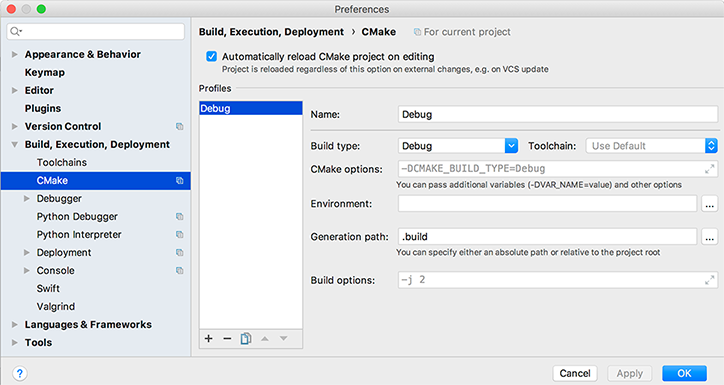
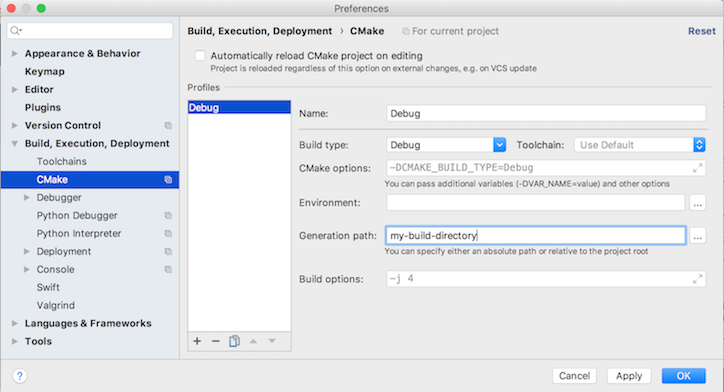
Update GeoFeatures-Development.md (#177)
* Update GeoFeatures-Development.md to reflect cmake-build-debug directory instead of .build.
* Updating Clion screenshot to reflect changes in GeoFeatures-Development.md.

diff --git a/Documentation/GeoFeatures-Development.md b/Documentation/GeoFeatures-Development.md
@@ -14,32 +14,34 @@ We highly recommend '**out of source**' builds for working with GeoFeatures.
 
 To create an out of source build, you can do the following.
 
-```
+```bash
 # cd <root of geofeatures>
-# mkdir .build && cd .build
+# mkdir cmake-build-debug && cd cmake-build-debug
 # cmake ../
 ```
-If all the dependent tools are installed, cmake will create the make files for development or any of the other tasks in this readme.
+> Note: You may name the directory whatever you'd like.  We chose `cmake-build-debug` because CLion uses that directory by default when you open the project directory. This allows seamless switching between CLion and the command line.
+
+If all the dependent tools are installed, cmake will create the make files for development and any of the other tasks in this readme.
 
 ### Swift build & test
 
 To build and test the code-line and run the appropriate tools, run the following commands.
 
 > Make sure you are in the same directory you ran cmake originally.
-```
+```bash
 # make
 ```
 If you want to build the code-line only, run:
-```
-# make geofeartures-build
+```bash
+# make geofeatures-build
 ```
 Or to specifically target the tests, run:
-```
-# make geofeartures-test
+```bash
+# make geofeatures-test
 ```
 
 If you get stuck and need help, run:
-```
+```bash
 # make help
 ```
 
@@ -47,7 +49,7 @@ If you get stuck and need help, run:
 
 If you are using Clion, it will read the cmake files when you open the root of the GeoFeatures directory structure.
 
-You should  reconfigure it after initial start up for '**out of source**' builds so you can keep the same cmake configuration in Clion as on the command line. To do that, open Clion preferences and set the "Generation path" to `.build` as shown in the screenshot below.
+If you've used another directory other than `cmake-build-debug` when you followed the [Getting Started](#getting-started) section, you should reconfigure CLion after initial startup so you can keep the same cmake configuration in Clion as on the command line. To do that, open Clion preferences and set the "Generation path" to the directory name you chose as shown in the screenshot below.
 
 ![CLion Preferences](JetBrains-Clion-CMake-Preferences.png)
 
@@ -57,7 +59,7 @@ You should  reconfigure it after initial start up for '**out of source**' builds
 If you'd like to have an xcode project/workspace for your development efforts, we've built in a command to do that.
 
 > Make sure you are in the same directory you ran cmake originally.
-```
+```bash
 # make geofeatures-xcode-workspace
 ```
 
